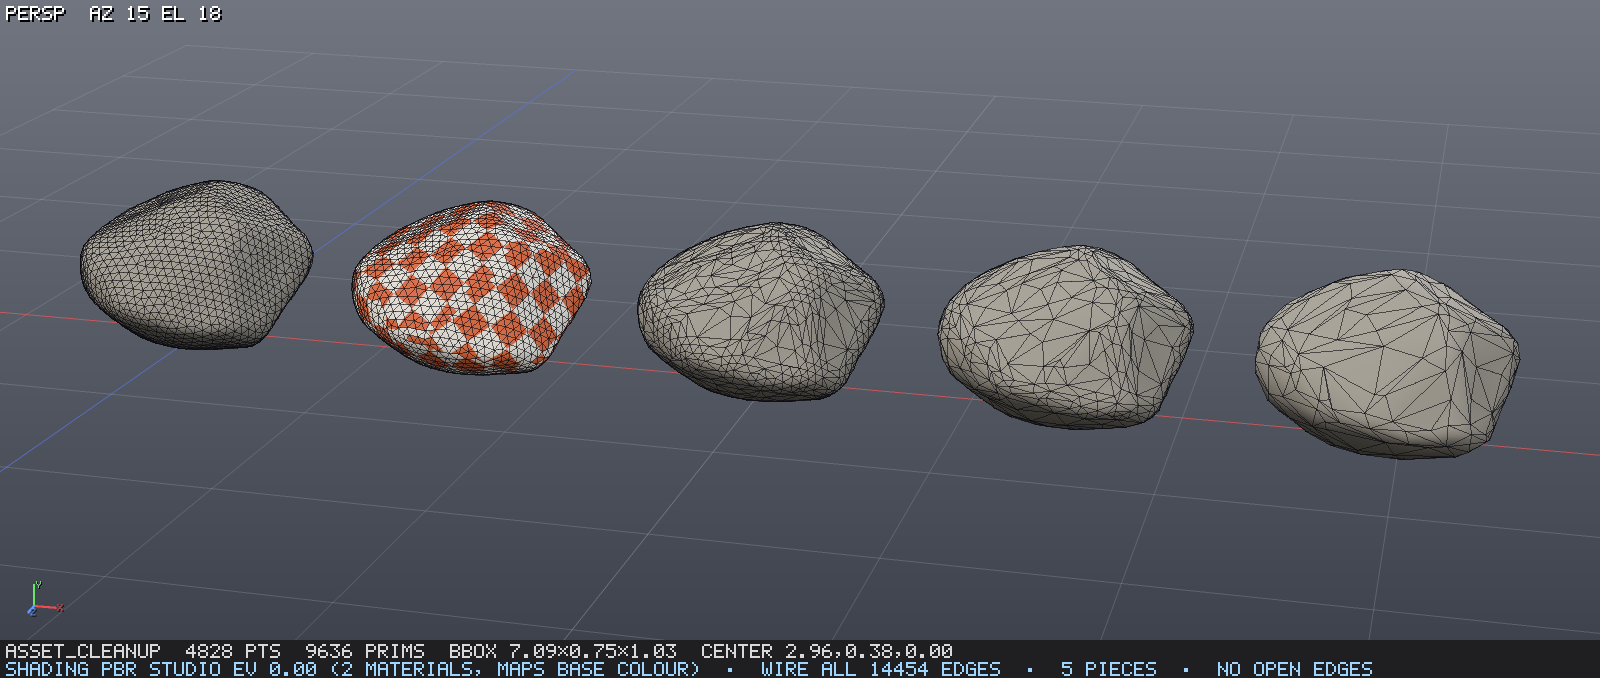
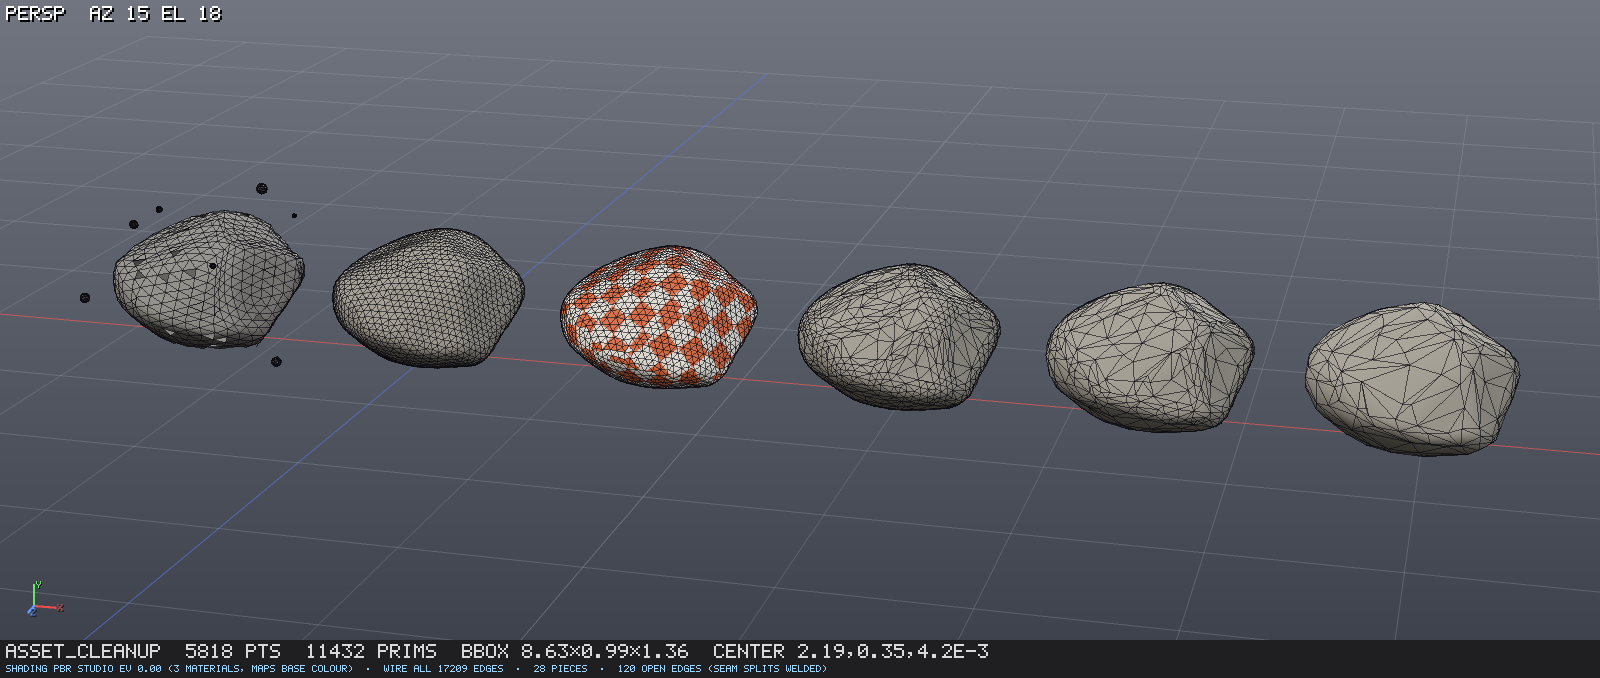
asset_cleanup shows the broken scan before the cleaned asset; workaround notes name F-126 and F-127

diff --git a/examples/asset_cleanup.md b/examples/asset_cleanup.md
@@ -21,5 +21,5 @@ levels of detail.
 - uv: every face has uv inside the 0 to 1 square.
 
 ## Look
-The cleaned rock (or column) with an even triangle wireframe, a checker-textured copy beside it, and its smaller levels
-of detail in a row.
+The broken scan first, with its holes and loose chips, then the cleaned rock (or column) with an even triangle
+wireframe, a checker-textured copy beside it, and its smaller levels of detail in a row.
